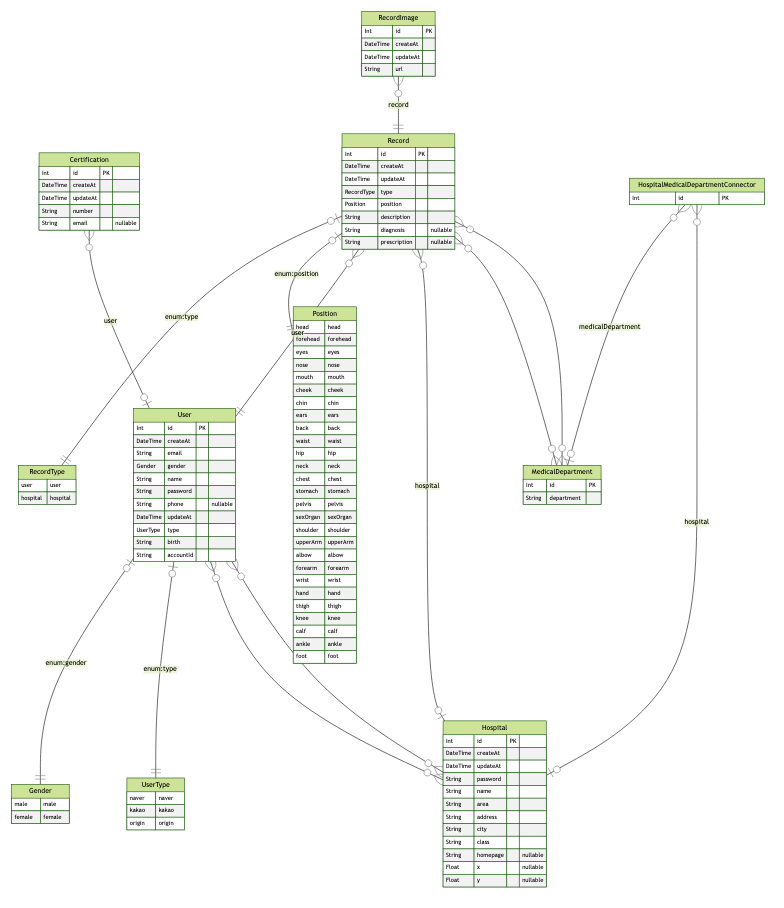
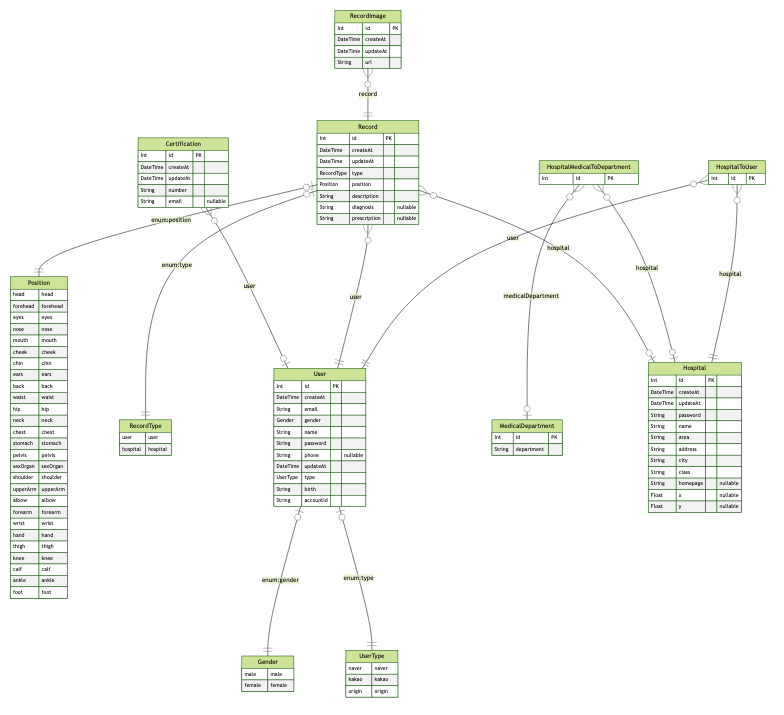
fix: prisma schema,병원조회로직 수정

diff --git a/pages/api/users/my-hospitals/find.ts b/pages/api/users/my-hospitals/find.ts
@@ -11,20 +11,6 @@ async function findHospital(req: NextApiRequest, res: NextApiResponse) {
   const { page, search } = req.query;
   console.log(page, "page", search, "search");
   const pagenation = Number(page) * 10;
-  const foundHospitalTotal = await client.hospital.findMany({
-    where: {
-      name: {
-        contains: String(search),
-      },
-    },
-    include: {
-      medicalDepartments: {
-        include: {
-          medicalDepartment: true,
-        },
-      },
-    },
-  });
 
   const foundHospital = await client.hospital.findMany({
     where: {
@@ -42,10 +28,8 @@ async function findHospital(req: NextApiRequest, res: NextApiResponse) {
     skip: pagenation,
     take: 10,
   });
-  if (!foundHospital) return res.status(400).end();
 
-  const lastPage = foundHospitalTotal.length < pagenation;
-  res.status(200).json({ foundHospital, status: lastPage });
+  res.status(200).json({ foundHospital, status: foundHospital ? true : false });
 }
 
 export default withApiSession(withHandler({ methods: ["POST", "GET", "PUT", "DELETE"], handler }));
